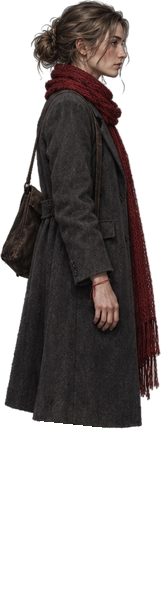
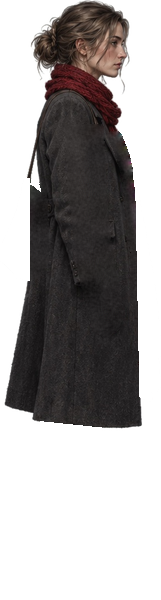
Livelier Anna: swinging arm, bending knees, trailing scarf and coat, swaying bag; lighter fog over characters
Claude-Session: https://claude.ai/code/session_01CtZJh69VWZfWKL7tGv8hTq

diff --git a/zavetye/index.html b/zavetye/index.html
@@ -2206,6 +2206,9 @@ function drawArtFrame(v, camX, anna, P, ph){
   g.setTransform(1, 0, 0, 1, 0, 0); g.fillStyle = '#0b0b0e'; g.fillRect(0, 0, cw, ch);
   drawArtStrip(g, P, camX, v.strip);
   if(oy + VH * s < ch){ g.fillStyle = '#101014'; g.fillRect(0, oy + VH * s - 1, cw, ch); }
+  const fogK = strip.indoor ? .12 : ph === 0 ? .55 : .9;
+  // дальний туман — за героями, ближний — полупрозрачно поверх, чтобы фигуры не тонули
+  if(!a.bright){ g.setTransform(1, 0, 0, 1, 0, 0); drawFog(g, ph, camX, fogK, 'back'); }
   g.setTransform(s, 0, 0, s, -camX * s, oy);
   SIL = a.bright ? 'rgba(40,34,30,.9)' : strip.indoor ? 'rgba(22,16,12,.92)' : 'rgba(14,15,20,.9)';
   try{
@@ -2217,7 +2220,7 @@ function drawArtFrame(v, camX, anna, P, ph){
   if(anna && ph === 3) glow(rx(anna.x), GY - 70, strip.indoor ? 130 : 170, .8);
   drawParticles(g, v);
   g.setTransform(1, 0, 0, 1, 0, 0);
-  if(!a.bright) drawFog(g, ph, camX, strip.indoor ? .12 : ph === 0 ? .55 : .9);
+  if(!a.bright) drawFog(g, ph, camX, fogK * .45, 'front');
   gradeArt(g, ph, P.nightArt, a.bright);
   if(GLOWS.length){ g.globalCompositeOperation = 'lighter'; for(const L of GLOWS){ const x = (L.x - camX) * s, y = oy + L.y * s, r = L.r * s; if(r <= 0) continue; const gr = g.createRadialGradient(x, y, 0, x, y, r); gr.addColorStop(0, `rgba(${L.col},${.3 * L.a})`); gr.addColorStop(1, `rgba(${L.col},0)`); g.fillStyle = gr; g.fillRect(x - r, y - r, r * 2, r * 2); } g.globalCompositeOperation = 'source-over'; }
 }
@@ -2238,8 +2241,13 @@ const ASSETS = {
   'bg_street_4': 'art/bg_street_4.jpg',
   's_anna': 'art/s_anna.png',
   's_anna_body': 'art/s_anna_body.png',
-  's_anna_leg': 'art/s_anna_leg.png',
-  's_anna_leg2': 'art/s_anna_leg2.png',
+  's_anna_arm': 'art/s_anna_arm.png',
+  's_anna_bag': 'art/s_anna_bag.png',
+  's_anna_scarf': 'art/s_anna_scarf.png',
+  's_anna_thigh': 'art/s_anna_thigh.png',
+  's_anna_thigh2': 'art/s_anna_thigh2.png',
+  's_anna_shin': 'art/s_anna_shin.png',
+  's_anna_shin2': 'art/s_anna_shin2.png',
   // 'bg_street_a': 'art/bg_street_a.jpg',
   // 'p_grunya_warm': 'art/p_grunya_warm.png',
 };
@@ -2372,24 +2380,45 @@ function drawSprite(g, im, x, h, face, bob = 0){
   g.save(); g.translate(x, GY - bob); g.scale(face, 1); g.drawImage(im, -w / 2, -h, w, h); g.restore();
 }
 
-/* Анна на шарнирах: корпус + две ноги, шагающие из-под пальто.
-   Координаты — в пикселях картинки s_anna (161×600), бедро спрятано под пальто. */
-const ANNA_RIG = { W:161, H:600, legX:36, legY:385, hipX:70, hipY:372, foot:221 };
-function annaRigReady(){ return IMG.s_anna_body && IMG.s_anna_leg && IMG.s_anna_leg2; }
+/* Анна на шарнирах: корпус, рука, шарф, сумка и две ноги (бедро + голень).
+   Координаты — в пикселях картинки s_anna (161×600). Бедро и плечо спрятаны под пальто. */
+const ANNA_RIG = { W:161, H:600, hip:[70, 372], knee:[70, 478], shoulder:[84, 112], strap:[36, 184], foot:221,
+  pos:{ arm:[66,96], bag:[1,179], scarf:[109,133], thigh:[37,385], thigh2:[37,385], shin:[36,472], shin2:[36,472] } };
+const RIG_PARTS = ['body', ...Object.keys(ANNA_RIG.pos)];
+function annaRigReady(){ return RIG_PARTS.every(p => IMG['s_anna_' + p]); }
 function drawAnnaRig(g, x, h, face, ph, moving, run){
-  const R = ANNA_RIG, k = h / R.H;
-  const A = moving ? (run ? .52 : .42) : 0, sn = Math.sin(ph), cs = Math.cos(ph);
-  const ta = -A * sn, tb = A * sn;                       // ta — ближняя нога, вперёд = отрицательный угол
-  const drop = R.foot * (1 - Math.cos(A * sn));          // опорная нога должна стоять на земле
-  const liftA = moving ? Math.max(0, cs) * 9 : 0, liftB = moving ? Math.max(0, -cs) * 9 : 0;
+  const R = ANNA_RIG, k = h / R.H, P = R.pos, im = n => IMG['s_anna_' + n];
+  const t = performance.now() / 1000;
+  const A = moving ? (run ? .5 : .4) : 0, sn = Math.sin(ph), cs = Math.cos(ph);
+  // нога: угол бедра и сгиб колена (колено сгибается, пока нога идёт вперёд по воздуху)
+  const legPose = s => { const th = -A * Math.sin(ph + s), sw = Math.cos(ph + s);
+    return { th, bend: moving ? Math.max(0, sw) ** 1.5 * (run ? .95 : .75) + .04 : 0 }; };
+  const near = legPose(0), far = legPose(Math.PI);
+  const stance = near.bend < far.bend ? near : far;
+  const drop = R.foot * (1 - Math.cos(stance.th)) + (moving ? 1.5 : 0);
+  const breathe = moving ? 0 : Math.sin(t * 1.6) * 1.2;
   const w = R.W * k;
   g.fillStyle = 'rgba(10,10,14,.28)'; g.beginPath(); g.ellipse(x, GY + 3, w * .4 + Math.abs(sn) * A * 30 * k, 5, 0, 0, Math.PI * 2); g.fill();
   g.save(); g.translate(x, GY); g.scale(face * k, k); g.translate(-R.W / 2, -R.H + drop);
-  const leg = (im, t, lift) => { g.save(); g.translate(R.hipX, R.hipY - lift); g.rotate(t); g.drawImage(im, R.legX - R.hipX, R.legY - R.hipY); g.restore(); };
-  leg(IMG.s_anna_leg2, tb, liftB);
-  leg(IMG.s_anna_leg, ta, liftA);
-  if(moving){ g.translate(R.hipX, R.hipY); g.rotate(.03 + Math.sin(ph * 2) * .008); g.translate(-R.hipX, -R.hipY); }
-  g.drawImage(IMG.s_anna_body, 0, 0);
+  const put = (n, dx = 0, dy = 0) => g.drawImage(im(n), P[n][0] + dx, P[n][1] + dy);
+  const rot = (px, py, a, fn) => { g.save(); g.translate(px, py); g.rotate(a); g.translate(-px, -py); fn(); g.restore(); };
+  const leg = (L, sfx) => rot(R.hip[0], R.hip[1], L.th, () => { put('thigh' + sfx); rot(R.knee[0], R.knee[1], L.bend, () => put('shin' + sfx)); });
+  leg(far, '2'); leg(near, '');
+  // корпус: лёгкий наклон вперёд при ходьбе, полы пальто отстают и колышутся
+  rot(R.hip[0], R.hip[1], moving ? .035 + Math.sin(ph * 2) * .01 : 0, () => {
+    g.translate(0, breathe * .3);
+    const body = im('body'), y0 = 300, y1 = 445, sway = moving ? -(2.5 + 2 * Math.sin(ph * 2 + .6)) * (run ? 1.6 : 1) : Math.sin(t * .9) * .4;
+    g.drawImage(body, 0, 0, R.W, y0 + 2, 0, 0, R.W, y0 + 2);
+    for(let y = y0; y < y1; y += 5){ const q = ((y - y0) / (y1 - y0)) ** 1.6; g.drawImage(body, 0, y, R.W, Math.min(8, y1 + 20 - y), sway * q, y, R.W, Math.min(8, y1 + 20 - y)); }
+    // сумка качается на ремне с запаздыванием
+    rot(R.strap[0], R.strap[1], moving ? Math.sin(ph * 2 - 1.2) * .07 + .04 : Math.sin(t * .8) * .01, () => put('bag'));
+    // шарф: концы отстают назад и волной колышутся
+    const sc = im('scarf'), sh = sc.height, trail = moving ? (run ? 9 : 5) : 0;
+    for(let y = 0; y < sh; y += 4){ const q = y / sh, dx = -trail * q ** 1.3 + Math.sin(t * (moving ? 7 : 1.7) - q * 4) * (moving ? 2.2 : .8) * q;
+      const hh = Math.min(7, sh - y); g.drawImage(sc, 0, y, sc.width, hh, P.scarf[0] + dx, P.scarf[1] + y, sc.width, hh); }
+    // рука в противоход ближней ноге
+    rot(R.shoulder[0], R.shoulder[1], moving ? -near.th * .8 + .03 : Math.sin(t * 1.1) * .01, () => put('arm'));
+  });
   g.restore();
 }
 
@@ -2403,10 +2432,11 @@ function fogTex(ph){
     for(const dx of [-1024, 0, 1024]){ const gr = g.createRadialGradient(x + dx, y, 0, x + dx, y, rr); gr.addColorStop(0, `rgba(${FOGCFG[ph].c},.2)`); gr.addColorStop(1, `rgba(${FOGCFG[ph].c},0)`); g.fillStyle = gr; g.fillRect(x + dx - rr, y - rr, rr * 2, rr * 2); } }
   return fogCache[ph] = c;
 }
-function drawFog(g, ph, camX, strength = 1){
+function drawFog(g, ph, camX, strength = 1, part = 'all'){
   const { s, oy, cw } = VIEW, tex = fogTex(ph), a = FOGCFG[ph].a * strength;
   const layers = [ { y:GY - 220, h:300, sp:5, par:.45, a:.55 }, { y:GY - 110, h:240, sp:12, par:.9, a:.85 }, { y:GY - 20, h:190, sp:20, par:1.25, a:1 } ];
-  for(const L of layers){
+  for(const [i, L] of layers.entries()){
+    if(part === 'back' && i === 2 || part === 'front' && i < 2) continue;
     const tw = 1024 * 1.4 * s, th = L.h * s, y = oy + L.y * s;
     let off = -(((camX * L.par + T * L.sp) * s) % tw); if(off > 0) off -= tw;
     g.globalAlpha = Math.min(1, a * L.a);
